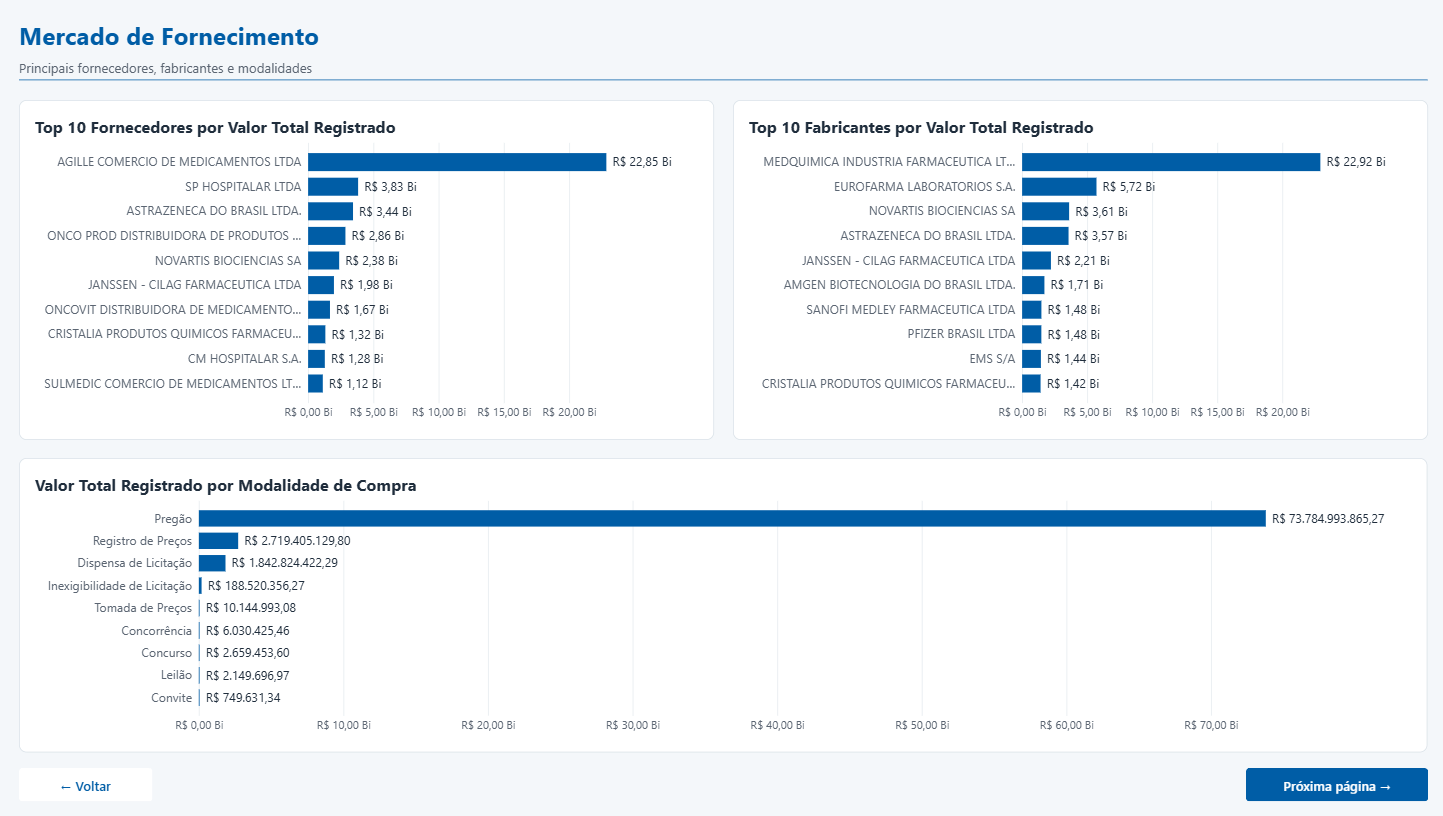
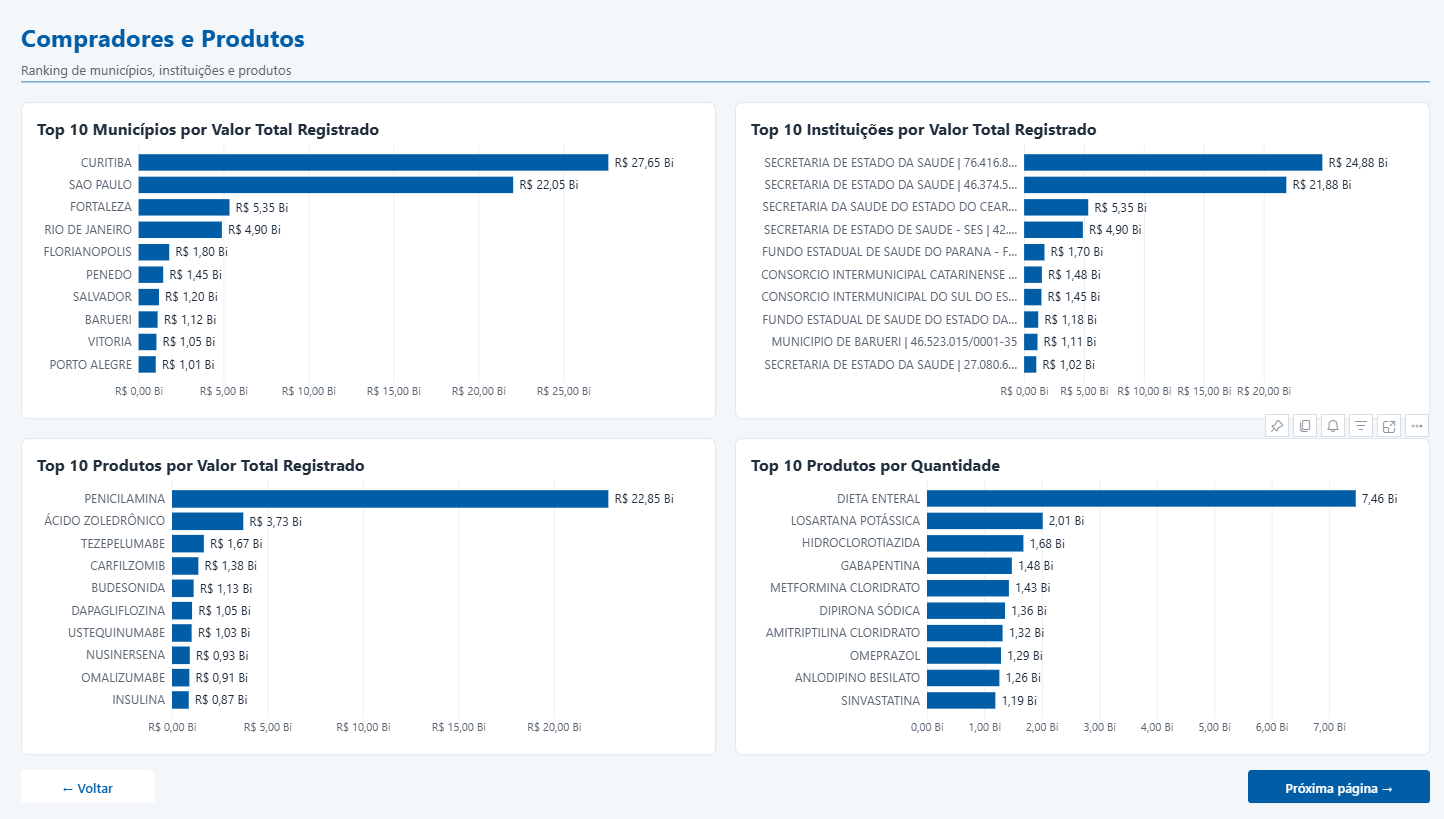
docs: finaliza README, validacao e imagens do dashboard

diff --git a/analise_bps.py b/analise_bps.py
@@ -13,7 +13,7 @@ arquivo_padrao = pasta_processados / "BPS_20_26_Petras_Ruben_Carvalho.csv"
 arquivo_saida = Path(sys.argv[1]) if len(sys.argv) > 1 else arquivo_padrao
 
 # 3. Leitura dos arquivos de 2020 a 2026
-# Ler os identificadores como texto para preservar seus valores.
+# Lendo os identificadores como texto para preservar seus valores.
 tipos = {
     "ano_compra": "int64",
     "codigo_br": "string",
@@ -43,17 +43,17 @@ for ano in range(2020, 2027):
     print(f"{ano}: {len(base_anual)} registros")
 
 # 4. Junção das bases anuais
-# Empilhar as sete tabelas e criar uma sequência única de índices.
+# Empilhando as sete tabelas e criar uma sequência única de índices.
 base = pd.concat(bases, ignore_index=True)
 registros_originais = len(base)
 
 # 5. Verificação e remoção dos duplicados
-# Comparar as 25 colunas originais antes de tratar os dados.
+# Comparabdo as 25 colunas originais antes de tratar os dados.
 duplicados_removidos = int(base.duplicated().sum())
 base = base.drop_duplicates(keep="first")
 
 # 6. Seleção das colunas utilizadas no projeto
-# Manter os campos necessários às análises e comparações no Power BI.
+# Mantendo os campos necessários para as análises.
 colunas_projeto = [
     "ano_compra",
     "compra",
@@ -76,7 +76,7 @@ colunas_projeto = [
 base = base[colunas_projeto]
 
 # 7. Tratamento e definição dos tipos de dados
-# Definir os tipos para facilitar a análise posterior no Power BI.
+# Definindo os tipos para facilitar a análise posterior no Power BI.
 base["ano_compra"] = base["ano_compra"].astype("int64")
 base["compra"] = pd.to_datetime(
     base["compra"], format="%d/%m/%Y", errors="coerce",
@@ -96,14 +96,14 @@ colunas_texto = [
     "fornecedor",
     "fabricante",
 ]
-# Remover espaços nas extremidades e reduzir espaços consecutivos.
+# Removendo espaços nas extremidades e reduzindo espaços consecutivos.
 for coluna in colunas_texto:
     base[coluna] = (
         base[coluna].astype("string").str.strip()
         .str.replace(r"\s+", " ", regex=True)
     )
 
-# Padronizar espaços ao redor de hífens somente nos nomes abaixo.
+# Padronização dos espaços ao redor de hífens somente nos nomes abaixo.
 for coluna in ["nome_instituicao", "fornecedor", "fabricante"]:
     base[coluna] = base[coluna].str.replace(r"\s*-\s*", " - ", regex=True)
 
@@ -121,7 +121,7 @@ print(f"Registros contendo '<': {com_tags.sum()}")
 print(f"Registros contendo '&#': {com_entidades.sum()}")
 print(f"Registros afetados por pelo menos um dos padrões: {afetados_html.sum()}")
 
-# Criar o nome para exibição, preservando descricao_catmat.
+# Criação do nome para exibição, preservando descricao_catmat.
 base.insert(base.columns.get_loc("descricao_catmat") + 1, "Nome_Produto",
             base["descricao_catmat"].copy())
 base["Nome_Produto"] = (
@@ -141,7 +141,7 @@ base.loc[~inicia_com_tag, "Nome_Produto"] = (
     .str.replace(r"<.*$", "", regex=True)
 )
 
-# Finalizar a limpeza e manter somente o texto antes da primeira vírgula.
+# Finalizando a limpeza e manter somente o texto antes da primeira vírgula.
 base["Nome_Produto"] = (
     base["Nome_Produto"]
     .str.replace(r"<[^>]+>", " ", regex=True)
@@ -170,7 +170,7 @@ for exemplo in exemplos.drop_duplicates().head(3).itertuples(index=False):
     print(f"Nome_Produto: {exemplo.Nome_Produto}\n")
 
 # 8. Verificação dos valores nulos
-# Contar as ausências sem preencher campos ou excluir linhas.
+# Contando as ausências sem preencher campos ou excluir linhas.
 nulos_por_coluna = base.isnull().sum()
 
 # 9. Conferência dos indicadores
@@ -179,7 +179,8 @@ quantidade_total = base["qtd_itens_comprados"].sum()
 numero_registros = len(base)
 instituicoes = base["cnpj_instituicao"].nunique()
 fornecedores = base["cnpj_fornecedor"].nunique()
-# Dividir os totais para obter a média ponderada.
+
+# Dividindo os totais para obter a média ponderada.
 preco_medio_ponderado = valor_total / quantidade_total
 
 # 10. Conferência antes da exportação
@@ -206,20 +207,10 @@ print(f"Instituições: {instituicoes}")
 print(f"Fornecedores: {fornecedores}")
 print(f"Preço médio ponderado: {preco_medio_ponderado:.10f}")
 
-# Conferir os KPIs na precisão informada antes de gravar o arquivo.
-if (
-    numero_registros != 342697
-    or f"{valor_total:.4f}" != "78557477974.0877"
-    or quantidade_total != 57127143721
-    or instituicoes != 831
-    or fornecedores != 3502
-    or f"{preco_medio_ponderado:.10f}" != "1.3751340056"
-):
-    raise ValueError("KPIs diferentes dos esperados. Exportação interrompida.")
-print("KPIs conferidos: todos permanecem iguais aos valores esperados.")
 
 # 11. Exportação do CSV consolidado para o Power BI
 pasta_processados.mkdir(parents=True, exist_ok=True)
+
 # Gravar uma única tabela, com vírgula decimal e sem o índice.
 base.to_csv(
     arquivo_saida, index=False, sep=";", encoding="utf-8-sig",
@@ -239,12 +230,35 @@ print(f"Linhas: {len(base_conferida)}")
 print(f"Colunas: {base_conferida.shape[1]}")
 print("Nomes das colunas:")
 print(base_conferida.columns.tolist())
-print(f"Presença de Nome_Produto: {'Nome_Produto' in base_conferida.columns}")
-if base_conferida.shape != (342697, 18) or "Nome_Produto" not in base_conferida.columns:
+print(
+    f"Presença de Nome_Produto: "
+    f"{'Nome_Produto' in base_conferida.columns}"
+)
+
+if (
+    base_conferida.shape != (numero_registros, base.shape[1])
+    or "Nome_Produto" not in base_conferida.columns
+):
     raise ValueError("Estrutura do CSV diferente da esperada.")
-tags_csv = base_conferida["Nome_Produto"].str.contains("<", regex=False, na=False).sum()
-entidades_csv = base_conferida["Nome_Produto"].str.contains("&#", regex=False, na=False).sum()
+
+tags_csv = base_conferida["Nome_Produto"].str.contains(
+    "<",
+    regex=False,
+    na=False
+).sum()
+
+entidades_csv = base_conferida["Nome_Produto"].str.contains(
+    "&#",
+    regex=False,
+    na=False
+).sum()
+
 print(f"Nome_Produto contendo '<' no CSV: {tags_csv}")
 print(f"Nome_Produto contendo '&#' no CSV: {entidades_csv}")
+
 if tags_csv > 0 or entidades_csv > 0:
-    raise ValueError("O CSV contém HTML não tratado em Nome_Produto.")
+    raise ValueError(
+        "O CSV contém HTML não tratado em Nome_Produto."
+    )
+
+print("Conferência concluída. CSV gerado e validado com sucesso.")
